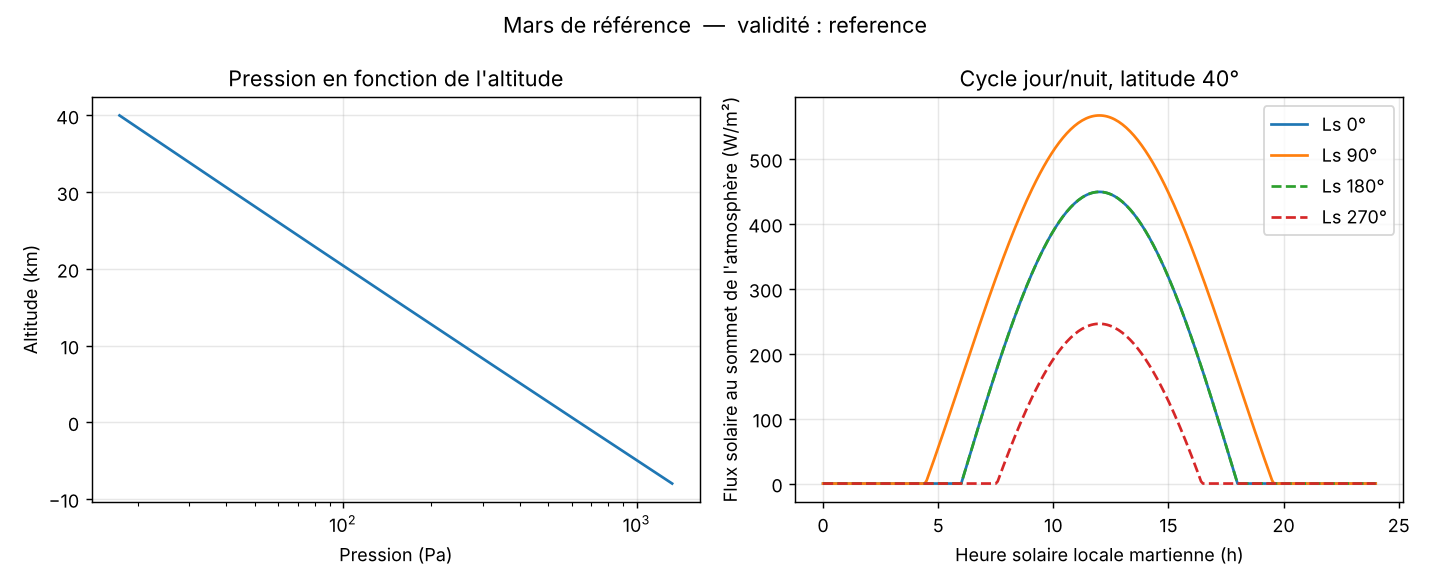
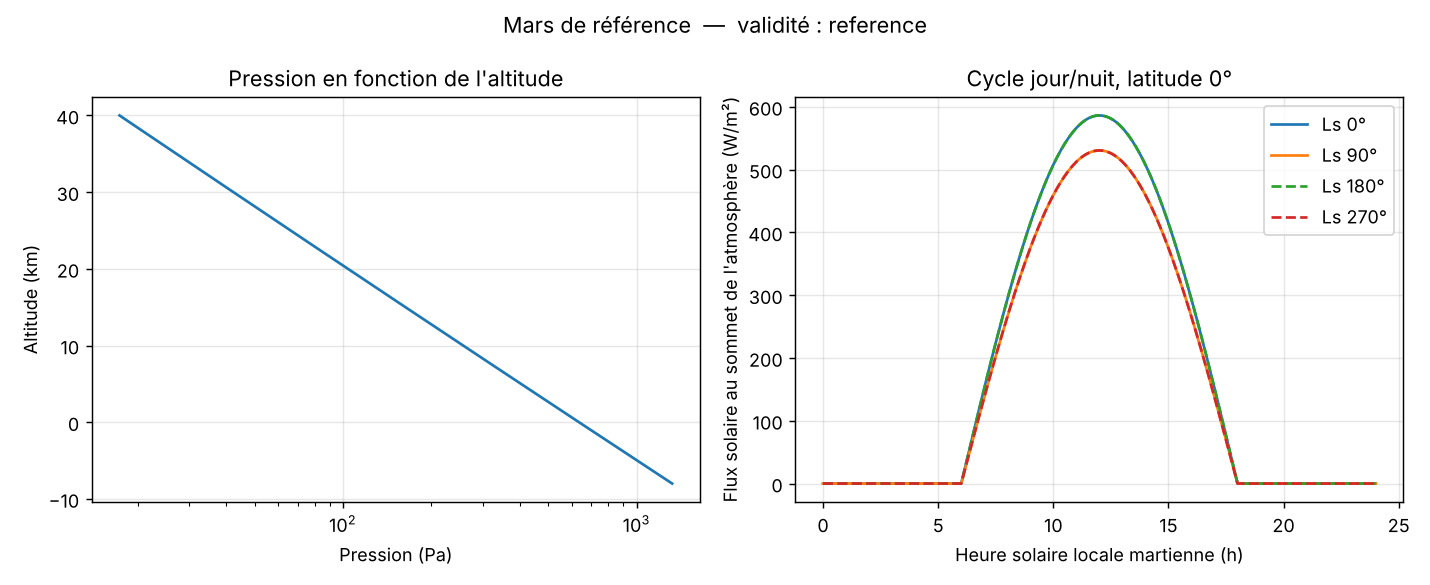
Cycle saisonnier et comparaison avec Curiosity

diff --git a/compare_measurements.py b/compare_measurements.py
@@ -1,0 +1,68 @@
+"""Compare le modèle aux vraies mesures de Mars (Curiosity, site du cratère Gale).
+
+Exemples :
+  python compare_measurements.py
+  python compare_measurements.py --set mean_temperature=200
+"""
+from __future__ import annotations
+
+import argparse
+import json
+from pathlib import Path
+
+from mars import physics
+from mars.experiment import Experiment
+from mars.reference import load_local
+
+MEASUREMENTS = Path(__file__).parent / "data" / "real_measurements.json"
+
+# Altitude du site d'atterrissage de Curiosity (cratère Gale) : -4500,971 m
+# (Ruíz et al., Remote Sensing 2025, 17, 368).
+GALE_ALTITUDE_M = -4500.971
+# Curiosity a atterri près du minimum annuel de pression : on compare à Ls = minimum.
+LANDING_LS_KEY = "ls_pressure_min"
+
+
+def parse_overrides(items):
+    out = {}
+    for item in items or []:
+        key, _, val = item.partition("=")
+        out[key.strip()] = float(val)
+    return out
+
+
+def main(argv=None):
+    ap = argparse.ArgumentParser(description=__doc__, formatter_class=argparse.RawDescriptionHelpFormatter)
+    ap.add_argument("--set", action="append", metavar="CLE=VALEUR")
+    args = ap.parse_args(argv)
+
+    refs = load_local()
+    exp = Experiment("Comparaison Curiosity", refs, overrides=parse_overrides(args.set))
+    p = exp.params
+    meas = {m["variable"]: m for m in json.load(open(MEASUREMENTS, encoding="utf-8"))}
+
+    ls = p.raw(LANDING_LS_KEY)
+    p_annual = float(physics.pressure(p, GALE_ALTITUDE_M))
+    p_season = float(physics.pressure(p, GALE_ALTITUDE_M, ls))
+    lo = meas["surface_pressure_daily_min"]["value"]
+    hi = meas["surface_pressure_daily_max"]["value"]
+    mean_early = meas["surface_pressure_daily_mean_early"]["value"]
+
+    print(f"\nValidité de l'expérience : {exp.validity()}")
+    print(f"\nPression au cratère Gale (altitude {GALE_ALTITUDE_M:.0f} m)")
+    print(f"  Modèle, moyenne annuelle        : {p_annual:7.1f} Pa")
+    print(f"  Modèle, saison Ls = {ls:.0f}°        : {p_season:7.1f} Pa")
+    print(f"  Mesure Curiosity (moyenne)      : {mean_early:7.1f} Pa   (min {lo:.0f} / max {hi:.0f} sur une journée)")
+    err = 100.0 * (p_season - mean_early) / mean_early
+    print(f"  Écart modèle (saison) / mesure  : {err:+.1f} %")
+    verdict = "dans la fourchette mesurée" if lo <= p_season <= hi else "hors de la fourchette mesurée"
+    print(f"  Verdict                         : {verdict}")
+
+    print("\nTempérature : le modèle n'a pas encore de température locale (seulement la température")
+    print(f"  d'équilibre globale, {physics.equilibrium_temperature(p):.1f} K). Mesure à Gale : "
+          f"moyenne diurne ~{meas['air_temperature_diurnal_mean_before_dust_storm']['value']:.0f} K.")
+    print("  -> comparaison possible à l'étape suivante (modèle de température par latitude).\n")
+
+
+if __name__ == "__main__":
+    main()

diff --git a/mars/physics.py b/mars/physics.py
@@ -28,6 +28,7 @@ USED_KEYS = [
     "mass", "mean_radius", "mean_temperature", "mean_molecular_weight",
     "surface_pressure_mean", "solar_irradiance", "bond_albedo",
     "obliquity", "solar_day_length",
+    "seasonal_pressure_ptp_fraction", "ls_pressure_min", "ls_pressure_max",
 ]
 
 
@@ -42,17 +43,42 @@ def scale_height(p: Parameters) -> float:
     return R_GAS * p.si("mean_temperature") / (p.si("mean_molecular_weight") * float(gravity(p)))
 
 
-def pressure(p: Parameters, altitude_m=0.0):
-    """Pression (Pa) : équilibre hydrostatique isotherme avec g qui décroît avec l'altitude."""
+def seasonal_pressure_factor(p: Parameters, ls_deg: float) -> float:
+    """Facteur saisonnier de la pression (1 = moyenne annuelle).
+
+    Cycle du CO2 (condensation/sublimation aux pôles), simplifié : un minimum et
+    un maximum par an, reliés par des demi-cosinus. Le cycle réel a un second
+    minimum et un second maximum plus faibles (non modélisés ici).
+    """
+    amp = p.raw("seasonal_pressure_ptp_fraction") / 2.0
+    lmin = p.raw("ls_pressure_min") % 360.0
+    lmax = p.raw("ls_pressure_max") % 360.0
+    up = (lmax - lmin) % 360.0          # durée (en degrés de Ls) du minimum vers le maximum
+    d = (ls_deg - lmin) % 360.0
+    if d <= up:
+        shape = -math.cos(math.pi * d / up)
+    else:
+        shape = math.cos(math.pi * (d - up) / (360.0 - up))
+    return 1.0 + amp * shape
+
+
+def pressure(p: Parameters, altitude_m=0.0, ls_deg=None):
+    """Pression (Pa) : équilibre hydrostatique isotherme avec g qui décroît avec l'altitude.
+
+    Sans ls_deg : pression moyenne annuelle. Avec ls_deg : pression à cette saison.
+    """
     r0 = p.si("mean_radius")
     h = np.asarray(altitude_m, dtype=float)
     k = p.si("mean_molecular_weight") * G * p.si("mass") / (R_GAS * p.si("mean_temperature"))
-    return p.si("surface_pressure_mean") * np.exp(-k * (1.0 / r0 - 1.0 / (r0 + h)))
+    base = p.si("surface_pressure_mean") * np.exp(-k * (1.0 / r0 - 1.0 / (r0 + h)))
+    if ls_deg is not None:
+        base = base * seasonal_pressure_factor(p, ls_deg)
+    return base
 
 
-def density(p: Parameters, altitude_m=0.0):
+def density(p: Parameters, altitude_m=0.0, ls_deg=None):
     """Densité de l'air (kg/m3) par la loi des gaz parfaits."""
-    return pressure(p, altitude_m) * p.si("mean_molecular_weight") / (R_GAS * p.si("mean_temperature"))
+    return pressure(p, altitude_m, ls_deg) * p.si("mean_molecular_weight") / (R_GAS * p.si("mean_temperature"))
 
 
 def equilibrium_temperature(p: Parameters) -> float:

diff --git a/tests/test_physics.py b/tests/test_physics.py
@@ -76,3 +76,20 @@ def test_levels_and_validity():
 def test_unknown_parameter_rejected():
     with pytest.raises(KeyError):
         params(inexistant=1)
+
+
+def test_seasonal_factor_min_max_and_mean():
+    p = params()
+    assert physics.seasonal_pressure_factor(p, 150.0) == pytest.approx(0.875)
+    assert physics.seasonal_pressure_factor(p, 260.0) == pytest.approx(1.125)
+    mean = sum(physics.seasonal_pressure_factor(p, ls) for ls in range(360)) / 360.0
+    assert mean == pytest.approx(1.0, abs=0.01)
+
+
+def test_seasonal_pressure_changes_with_ls():
+    p = params()
+    assert physics.pressure(p, 0.0, 150.0) < physics.pressure(p, 0.0) < physics.pressure(p, 0.0, 260.0)
+
+
+def test_new_reference_keys_levels():
+    assert Experiment("t", REFS, overrides={"seasonal_pressure_ptp_fraction": 0.30}).validity() == "within_uncertainty"

diff --git a/mars/experiment.py b/mars/experiment.py
@@ -50,6 +50,8 @@ class Experiment:
             add("density", physics.density(p, h), "kg/m3", altitude_m=float(h))
             add("gravity", physics.gravity(p, h), "m/s2", altitude_m=float(h))
         for ls in ls_values_deg:
+            add("surface_pressure_seasonal", physics.pressure(p, 0.0, ls), "Pa",
+                altitude_m=0.0, solar_longitude_deg=float(ls))
             add("daily_mean_insolation", physics.daily_mean_insolation(p, latitude_deg, ls),
                 "W/m2", latitude=float(latitude_deg), solar_longitude_deg=float(ls))
             add("noon_insolation", physics.insolation_toa(p, latitude_deg, 12.0, ls),
